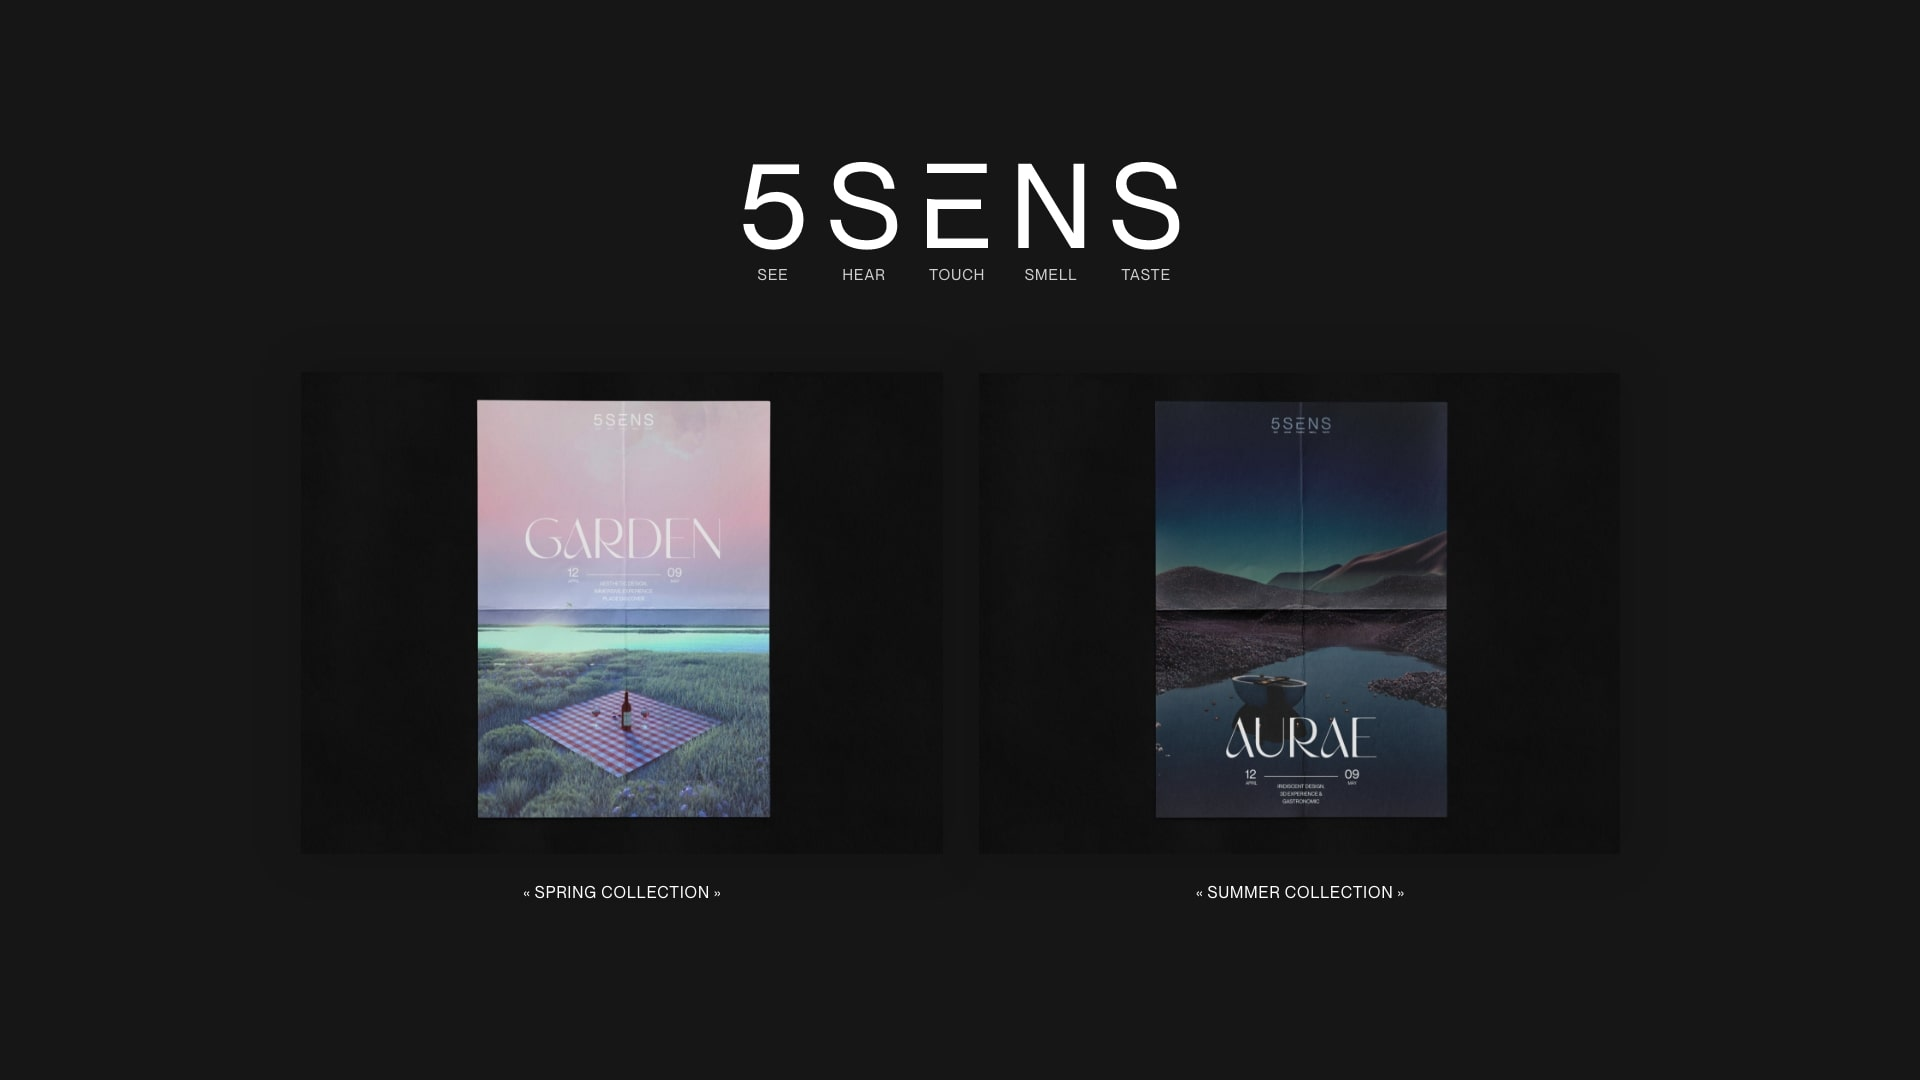
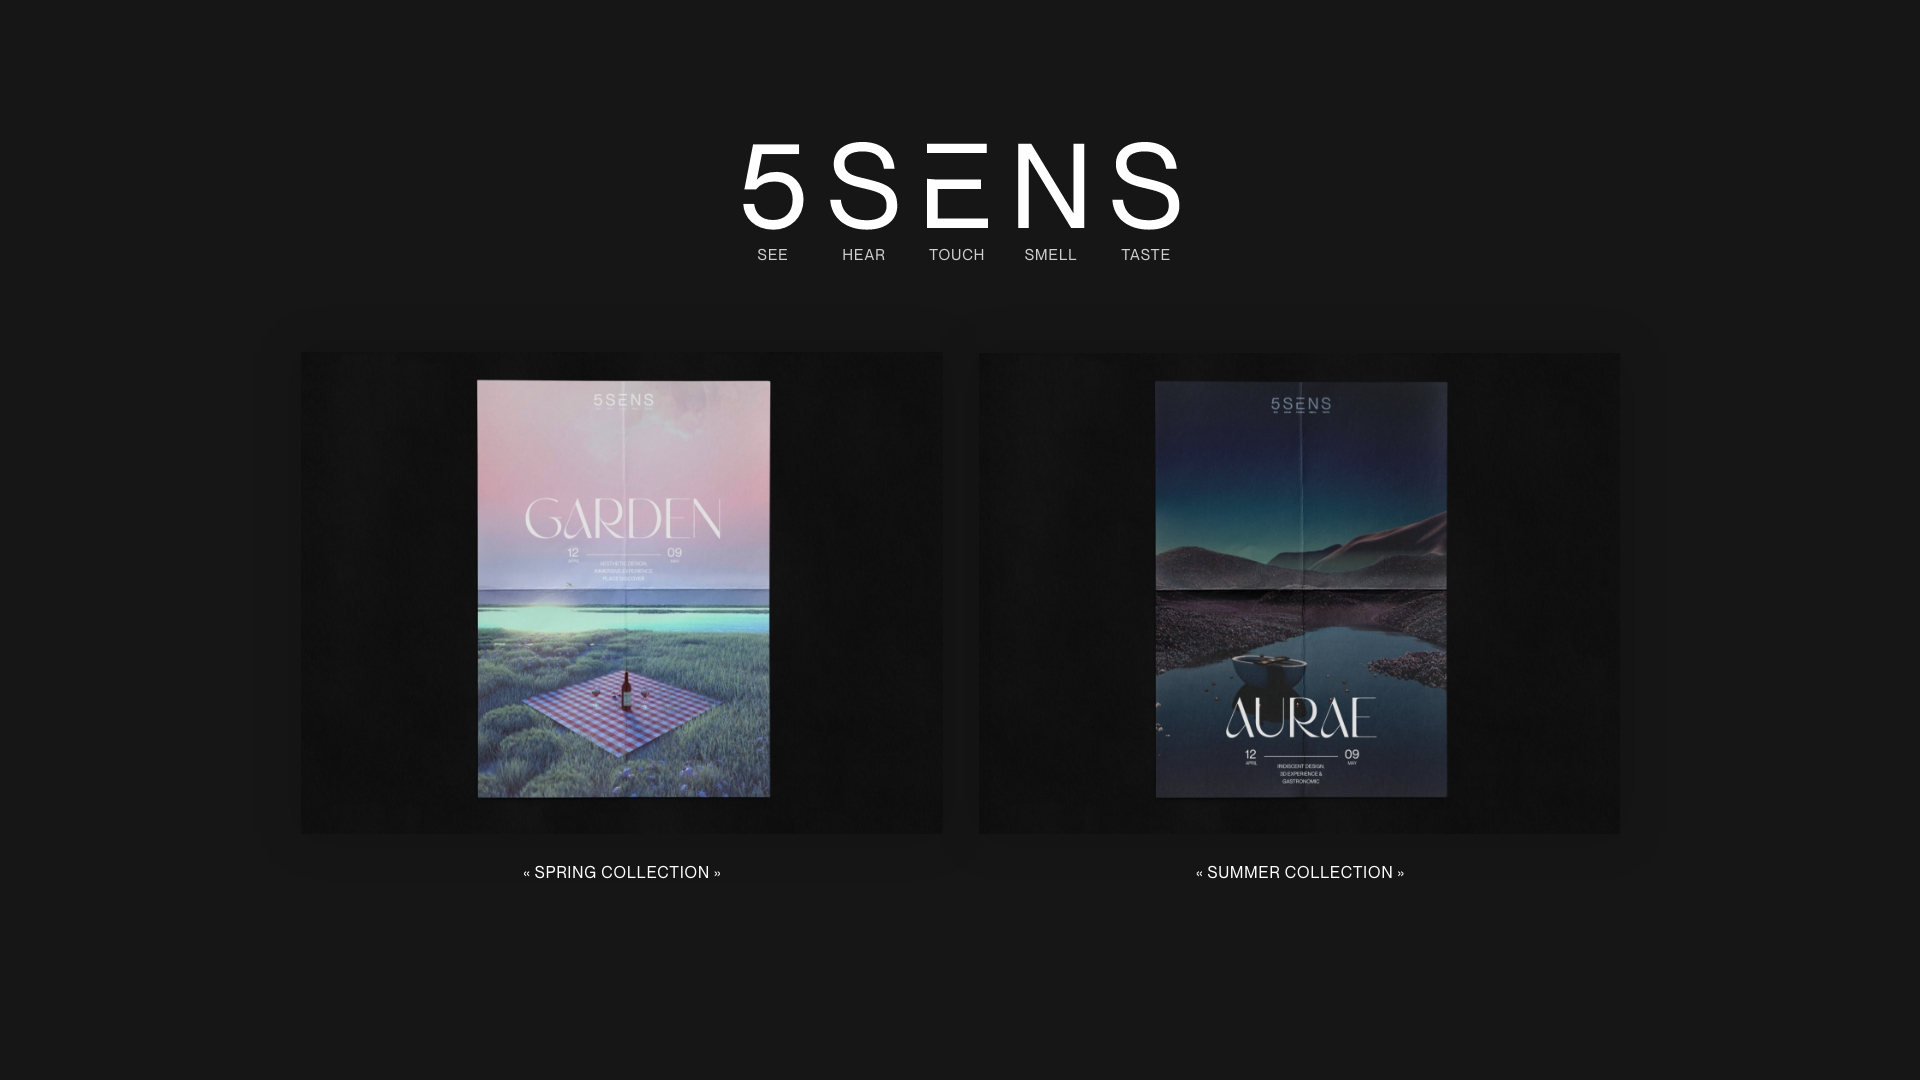
picture size

diff --git a/src/components/projects/Sens.jsx b/src/components/projects/Sens.jsx
@@ -74,7 +74,7 @@ const Sens = () => {
       <div className='headline text-regular'>Garden's Moodboard</div>
       <div className='separator'></div>
       <img src={gardenMoodboard} alt="garden" />
-      <div className="spacer"></div>
+      <div className="demi-spacer"></div>
       <div className='headline text-regular'>Poster</div>
       <div className='separator'></div>
       <img src={gardenPosters} alt="garden" />
@@ -91,7 +91,7 @@ const Sens = () => {
       <div className='headline text-regular'>Aurae's Moodboard</div>
       <div className='separator'></div>
       <img src={summerMoodboard} alt="garden" />
-      <div className="spacer"></div>
+      <div className="demi-spacer"></div>
       <div className='headline text-regular'>Poster</div>
       <div className='separator'></div>
       <img src={summerPosters} alt="garden" />
